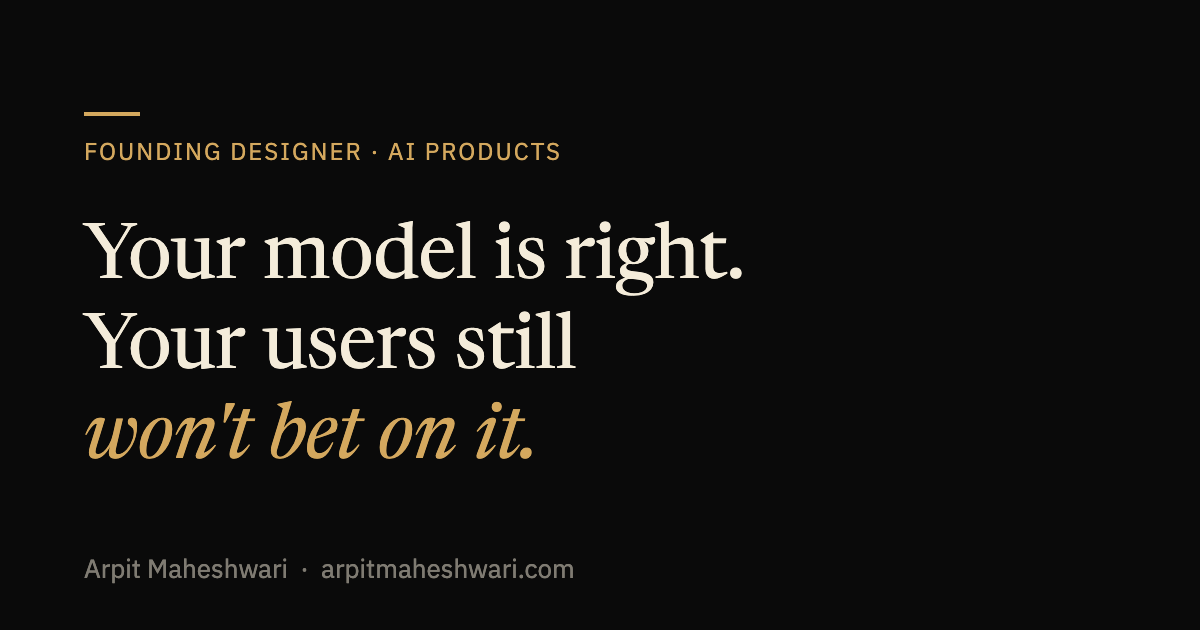
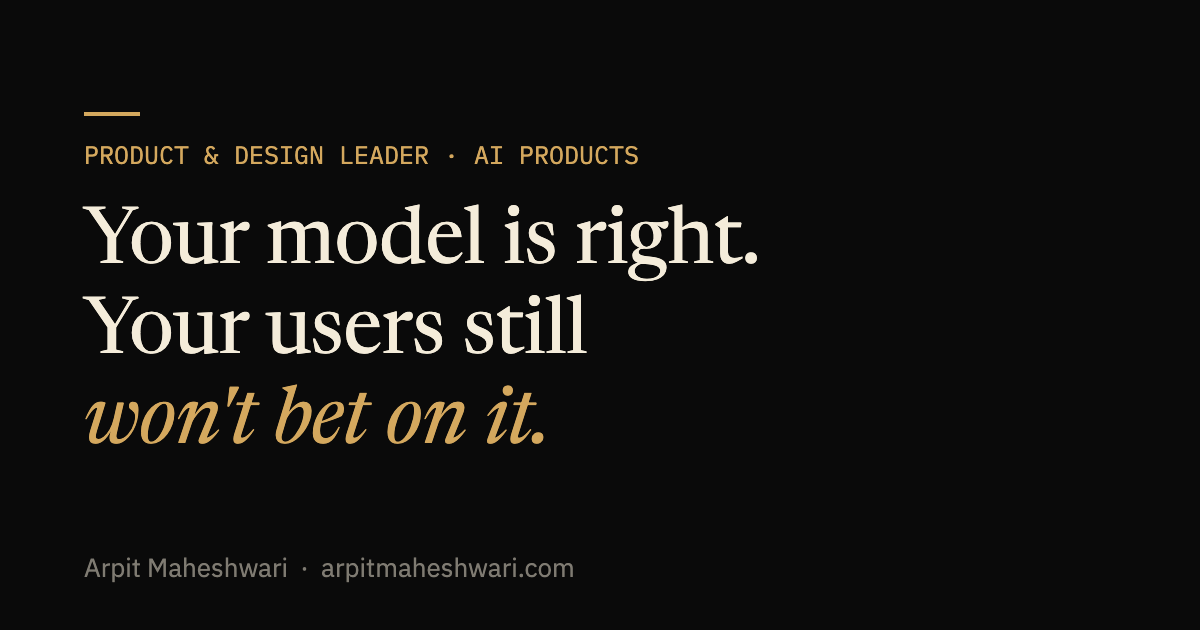
[positioning] retitle Design Leader -> Product & Design Leader across site, book, hire, llms.txt; PM receipts (AdTech, FinTech+DD, OrgOS) codified in CANONICAL-FACTS; OG cards for home + hire re-rendered with new title; portfolio.js v104

diff --git a/index.html b/index.html
@@ -7,7 +7,7 @@
 /* View router (homepage only): the book is the front door on desktop. Phones, touch, and reduced-motion get the scannable classic site by default — no rushed mobile screener forced into the page-turn book. A no-JS crawler never runs this, so classic stays fully indexable; ?view=classic (or a prior Classic choice) always stays here; deep links carry no router. The book remains one tap away via the nav. */
 (function(){try{var p=new URLSearchParams(location.search);if(p.get('view')==='classic'){localStorage.setItem('am-view','classic');return;}if(p.get('view')==='book'){localStorage.setItem('am-view','book');location.replace('./book/');return;}if(localStorage.getItem('am-view')==='book'){location.replace('./book/');}}catch(e){}})();
 </script>
-<title>Founding Designer for AI Products — Arpit Maheshwari</title>
+<title>Product &amp; Design Leader for AI Products — Arpit Maheshwari</title>
 <meta name="description" content="AI products don't fail at the model — they fail in the half-second before a person acts on it. I've designed that half-second for fifteen years.">
 <meta name="author" content="Arpit Maheshwari">
 <meta name="robots" content="index, follow, max-image-preview:large, max-snippet:-1, max-video-preview:-1">
@@ -17,20 +17,20 @@
 <meta name="geo.placename" content="Indore">
 <link rel="canonical" href="https://arpitmaheshwari.com/">
 <meta property="og:type" content="website">
-<meta property="og:title" content="Founding Designer for AI Products — Arpit Maheshwari">
+<meta property="og:title" content="Product & Design Leader for AI Products — Arpit Maheshwari">
 <meta property="og:description" content="AI products don't fail at the model — they fail in the half-second before a person acts on it. Arpit Maheshwari has designed that half-second for fifteen years. Open to founding-designer roles at AI product companies.">
 <meta property="og:url" content="https://arpitmaheshwari.com/">
 <meta property="og:image" content="https://arpitmaheshwari.com/assets/og-images/home-og.png">
-<meta property="og:image:alt" content="Your model is right. Your users still won't bet on it. — Arpit Maheshwari, founding designer for AI products">
+<meta property="og:image:alt" content="Your model is right. Your users still won't bet on it. — Arpit Maheshwari, product & design leader for AI products">
 <meta property="og:image:width" content="1200">
 <meta property="og:image:height" content="630">
 <meta property="og:site_name" content="Arpit Maheshwari Portfolio">
 <meta property="og:locale" content="en_IN">
 <meta name="twitter:card" content="summary_large_image">
-<meta name="twitter:title" content="Founding Designer for AI Products — Arpit Maheshwari">
+<meta name="twitter:title" content="Product & Design Leader for AI Products — Arpit Maheshwari">
 <meta name="twitter:description" content="AI products don't fail at the model — they fail in the half-second before a person acts on it. Arpit Maheshwari has designed that half-second for fifteen years. Open to founding-designer roles at AI product companies.">
 <meta name="twitter:image" content="https://arpitmaheshwari.com/assets/og-images/home-og.png">
-<meta name="twitter:image:alt" content="Your model is right. Your users still won't bet on it. — Arpit Maheshwari, founding designer for AI products">
+<meta name="twitter:image:alt" content="Your model is right. Your users still won't bet on it. — Arpit Maheshwari, product & design leader for AI products">
 <meta name="twitter:site" content="@arp_maheshwari">
 <meta name="twitter:creator" content="@arp_maheshwari">
 <link rel="icon" type="image/x-icon" href="./assets/favicon.ico">
@@ -50,12 +50,12 @@
   "name":"Arpit Maheshwari",
   "url":"https://arpitmaheshwari.com",
   "image":"https://arpitmaheshwari.com/arpit-maheshwari.jpg",
-  "jobTitle":"Design Leader — AI & Data-Intensive Products",
+  "jobTitle":"Product & Design Leader — AI & Data-Intensive Products",
   "description":"Founding & staff product designer for startups and enterprises building intelligent systems. 15 years designing data-intensive products across AI/ML, FinTech, AdTech, EdTech, and Telecom. Codes, reads SQL, ships to production.",
   "address":{"@type":"PostalAddress","addressLocality":"Indore","addressRegion":"Madhya Pradesh","addressCountry":"IN"},
   "alumniOf":[{"@type":"CollegeOrUniversity","name":"Institute of Management Technology, Ghaziabad"},{"@type":"CollegeOrUniversity","name":"Shri Vaishnav Institute of Technology and Science, Indore"}],
   "worksFor":{"@type":"Organization","name":"Sahaj AI Software Pvt. Ltd."},
-  "knowsAbout":["Founding Designer","Staff Product Designer","AI Product Design","ML Interface Design","Design Engineering","Data-Intensive Products","Confidence Score UX","ML Explainability UX","AdTech","FinTech","EdTech","Telecom UX","Web Accessibility","WCAG Compliance","Design Strategy","Frontend Prototyping"],
+  "knowsAbout":["Founding Designer","Product Management","Product Definition","Product Roadmapping","Staff Product Designer","AI Product Design","ML Interface Design","Design Engineering","Data-Intensive Products","Confidence Score UX","ML Explainability UX","AdTech","FinTech","EdTech","Telecom UX","Web Accessibility","WCAG Compliance","Design Strategy","Frontend Prototyping"],
   "sameAs":["https://www.linkedin.com/in/arpitmaheshwariprofile/","https://medium.com/@arpitmaheshwari","https://www.behance.net/arpitmaheshwari","https://github.com/arpitmaheshwari","https://x.com/arp_maheshwari"]
 }
 </script>
@@ -222,7 +222,7 @@
   <div class="hero-grid-lines" aria-hidden="true" style="z-index:1;"></div>
   <div style="position:relative; z-index:2; display:flex; gap:clamp(32px,4vw,64px); align-items:center; flex-wrap:wrap; width:100%; max-width:1280px; margin:0 auto; justify-content:space-between;">
   <div style="flex:1 1 520px; min-width:0; max-width:640px;">
-  <p class="hero-eyebrow" style="font-family:var(--ff-mono);font-size:var(--fs-eyebrow);letter-spacing:0.15em;text-transform:uppercase;color:var(--gold);margin:0 0 18px 0">Founding Designer · AI Products</p>
+  <p class="hero-eyebrow" style="font-family:var(--ff-mono);font-size:var(--fs-eyebrow);letter-spacing:0.15em;text-transform:uppercase;color:var(--gold);margin:0 0 18px 0">Product &amp; Design Leader · AI Products</p>
   <h1 class="hero-headline">
     <span class="line"><span class="line-inner">Your model is right.</span></span>
     <span class="line"><span class="line-inner">Your users still</span></span>
@@ -577,7 +577,7 @@
   <div class="contact-grid reveal" style="display:grid;grid-template-columns:repeat(auto-fit,minmax(300px,1fr));gap:clamp(36px,5vw,64px);align-items:start;margin-top:40px">
     <div>
       <h3 class="section-title" style="margin:0 0 18px 0">One seat. Full-time. Yours to offer.</h3>
-      <p class="u-body" style="margin:0 0 28px 0">I'm looking for exactly one role: founding designer at an AI product company of 5–40 people — or a staff / director seat where the trust layer is the actual job description. Fully remote from GMT+5:30 with 4–5 hours of daily US East overlap. Available — 4 weeks' notice.</p>
+      <p class="u-body" style="margin:0 0 28px 0">I'm looking for one seat: founding product &amp; design lead at an AI product company of 5–40 people — or a staff / director role where the trust layer is the actual job description. Fully remote from GMT+5:30 with 4–5 hours of daily US East overlap. Available — 4 weeks' notice.</p>
       <a href="https://calendly.com/arpitmaheshwari" target="_blank" rel="noopener noreferrer" data-cta="calendly" data-location="contact-secondary" style="display:inline-flex;align-items:center;gap:8px;padding:14px 24px;color:var(--gold);font-family:var(--ff-sans);font-weight:600;font-size:14px;letter-spacing:0.03em;border:1px solid var(--gold-dark);border-radius:2px;text-decoration:none;transition:border-color 0.3s,color 0.3s" onmouseover="this.style.borderColor='var(--gold)';this.style.color='var(--gold-light)'" onmouseout="this.style.borderColor='var(--gold-dark)';this.style.color='var(--gold)'">Prefer to talk first? Book 30 minutes ↗</a>
       <p style="font-size:13px;color:var(--ink-muted);margin:14px 0 0 0">I'll arrive having already used your product.</p>
       <p style="font-size:14px;color:var(--ink-muted);margin:18px 0 0 0">Prefer email? <a id="em-l" href="#" data-cta="email" data-location="contact" style="color:var(--gold);text-decoration:none;border-bottom:1px solid var(--gold-dark);padding-bottom:2px">Loading…</a></p>

diff --git a/hire/index.html b/hire/index.html
@@ -3,26 +3,26 @@
 <head>
 <meta charset="UTF-8">
 <meta name="viewport" content="width=device-width, initial-scale=1.0">
-<title>Hire Arpit Maheshwari — Founding Designer, AI Products</title>
-<meta name="description" content="One page: positioning, three receipts with baselines, two references, fifteen years of experience. Founding designer for AI products — available, 4 weeks' notice.">
+<title>Hire Arpit Maheshwari — Product & Design Leader, AI Products</title>
+<meta name="description" content="One page: positioning, three receipts with baselines, two references, fifteen years of experience. Product & design leader for AI products — available, 4 weeks' notice.">
 <meta name="author" content="Arpit Maheshwari">
 <meta name="theme-color" content="#0A0A0A">
 <link rel="canonical" href="https://arpitmaheshwari.com/hire/">
 <meta property="og:type" content="profile">
-<meta property="og:title" content="Hire Arpit Maheshwari — Founding Designer, AI Products">
+<meta property="og:title" content="Hire Arpit Maheshwari — Product & Design Leader, AI Products">
 <meta property="og:description" content="One page: positioning, three receipts with baselines, two references, fifteen years. Available · 4 weeks' notice.">
 <meta property="og:url" content="https://arpitmaheshwari.com/hire/">
 <meta property="og:image" content="https://arpitmaheshwari.com/assets/og-images/hire-og.png">
-<meta property="og:image:alt" content="Arpit Maheshwari — Founding Designer, AI Products. Available, 4 weeks' notice.">
+<meta property="og:image:alt" content="Arpit Maheshwari — Product & Design Leader, AI Products. Available, 4 weeks' notice.">
 <meta property="og:image:width" content="1200">
 <meta property="og:image:height" content="630">
 <meta property="og:site_name" content="Arpit Maheshwari Portfolio">
 <meta property="og:locale" content="en_IN" />
 <meta name="twitter:card" content="summary_large_image">
-<meta name="twitter:title" content="Hire Arpit Maheshwari — Founding Designer, AI Products">
+<meta name="twitter:title" content="Hire Arpit Maheshwari — Product & Design Leader, AI Products">
 <meta name="twitter:description" content="One page: positioning, receipts with baselines, references, availability.">
 <meta name="twitter:image" content="https://arpitmaheshwari.com/assets/og-images/hire-og.png">
-<meta name="twitter:image:alt" content="Arpit Maheshwari — Founding Designer, AI Products. Available, 4 weeks' notice.">
+<meta name="twitter:image:alt" content="Arpit Maheshwari — Product & Design Leader, AI Products. Available, 4 weeks' notice.">
 <link rel="preconnect" href="https://fonts.googleapis.com">
 <link rel="preconnect" href="https://fonts.gstatic.com" crossorigin>
 <link rel="preload" as="style" href="https://fonts.googleapis.com/css2?family=Newsreader:ital,opsz,wght@0,6..72,300;0,6..72,400;0,6..72,600;1,6..72,300;1,6..72,400&family=IBM+Plex+Sans:ital,wght@0,400;0,600;1,400&family=IBM+Plex+Mono:wght@400;500&family=Lexend:wght@400&display=swap">
@@ -32,9 +32,9 @@
 {
   "@context":"https://schema.org",
   "@type":"ProfilePage",
-  "name":"Hire Arpit Maheshwari — Founding Designer, AI Products",
+  "name":"Hire Arpit Maheshwari — Product & Design Leader, AI Products",
   "url":"https://arpitmaheshwari.com/hire/",
-  "about":{"@type":"Person","name":"Arpit Maheshwari","url":"https://arpitmaheshwari.com/","image":"https://arpitmaheshwari.com/arpit-maheshwari.jpg","jobTitle":"Founding Designer — AI Products"}
+  "about":{"@type":"Person","name":"Arpit Maheshwari","url":"https://arpitmaheshwari.com/","image":"https://arpitmaheshwari.com/arpit-maheshwari.jpg","jobTitle":"Product & Design Leader — AI Products"}
 }
 </script>
 <script async src="https://www.googletagmanager.com/gtag/js?id=G-PFY6ME99K8"></script>
@@ -108,7 +108,7 @@
     <img src="../arpit-maheshwari.jpg" alt="Arpit Maheshwari, design leader" width="88" height="88">
     <div>
       <h1 class="hire-name">Arpit Maheshwari</h1>
-      <p class="hire-role">Founding Designer · AI Products</p>
+      <p class="hire-role">Product &amp; Design Leader · AI Products</p>
     </div>
   </header>
 
@@ -151,10 +151,10 @@
   </table>
 
   <h2 class="hire-sec">Focus</h2>
-  <p class="hire-avail">Model-Layer Design · Data-Intensive UI · Design Leadership · Organizational Design · Research &amp; Evals · System Architecture</p>
+  <p class="hire-avail">Model-Layer Design · Product Definition &amp; Roadmaps · Data-Intensive UI · Design Leadership · Organizational Design · Research &amp; Evals · System Architecture</p>
 
   <h2 class="hire-sec">Availability</h2>
-  <p class="hire-avail">Founding designer for AI products — the one role I'm looking for, at a company of 5–40 people. Also open to a staff or director seat where the trust layer is the job. <strong>Available · 4 weeks' notice</strong> · Fully remote (GMT+5:30) · 4–5 hours of daily overlap with US East Coast.</p>
+  <p class="hire-avail">Founding product &amp; design lead for AI products — the one role I'm looking for, at a company of 5–40 people. Also open to a staff or director seat where the trust layer is the job. <strong>Available · 4 weeks' notice</strong> · Fully remote (GMT+5:30) · 4–5 hours of daily overlap with US East Coast.</p>
 
   <h2 class="hire-sec">How I de-risk the hire</h2>
   <p class="hire-avail">Paid 1-week trial on a real (not contrived) problem → 1-hour debrief → offer. I want you to see how I think and ship, not how I wireframe in interviews — and the trial is mutual: I'm evaluating you too. Your technical screen is also <a href="../screen/" data-cta="screen" data-location="hire">already answered in writing →</a></p>

diff --git a/book/portfolio.js b/book/portfolio.js
@@ -111,10 +111,10 @@ const WRITING = [{
   h: "Reading the support tickets myself",
   p: "The cheapest research method nobody on the design team wants to do."
 }];
-const STATUS = ["Available · 4 weeks' notice", "Founding designer · AI", "Remote · GMT+5:30"];
+const STATUS = ["Available · 4 weeks' notice", "Product & design lead · AI", "Remote · GMT+5:30"];
 
 /* ---- CURRICULUM VITAE (the printable appendix) ---- */
-const CV_SKILLS = ["Model-Layer Design", "Data-Intensive UI", "Design Leadership", "Organizational Design", "Research & Evals", "System Architecture"];
+const CV_SKILLS = ["Model-Layer Design", "Product Definition & Roadmaps", "Data-Intensive UI", "Design Leadership", "Organizational Design", "Research & Evals", "System Architecture"];
 const CV_EXP = [{
   yr: "2019—",
   role: "Solution Consultant",
@@ -1325,7 +1325,7 @@ function buildBook(ctx) {
       className: "bk-cover__rule"
     }), /*#__PURE__*/React.createElement("p", {
       className: "bk-cover__byline"
-    }, "Arpit Maheshwari"), /*#__PURE__*/React.createElement("p", { className: "bk-cover__skim" }, "Founding designer for AI products \xB7 shipped to 4M+"), /*#__PURE__*/React.createElement("a", { className: "bk-cover__skimlink", href: "../index.html?view=classic", onClick: e => { e.stopPropagation(); try { localStorage.setItem("am-view", "classic"); } catch (err) {} } }, "Read the classic site instead \u2192"), /*#__PURE__*/React.createElement("button", {
+    }, "Arpit Maheshwari"), /*#__PURE__*/React.createElement("p", { className: "bk-cover__skim" }, "Product & design leader for AI products \xB7 shipped to 4M+"), /*#__PURE__*/React.createElement("a", { className: "bk-cover__skimlink", href: "../index.html?view=classic", onClick: e => { e.stopPropagation(); try { localStorage.setItem("am-view", "classic"); } catch (err) {} } }, "Read the classic site instead \u2192"), /*#__PURE__*/React.createElement("button", {
       className: "bk-cover__open",
       onClick: () => go(1),
       "aria-label": "Open the book \u2014 tap or press space"
@@ -1792,7 +1792,7 @@ function buildBook(ctx) {
       }
     }, "Building in AI?"), /*#__PURE__*/React.createElement("p", {
       className: "bk-body"
-    }, "Your model is right. Your users still won’t bet on it. That half-second of doubt is the only thing I design. Founding designer for AI products — also open to a staff or director trust-layer seat. Available."), /*#__PURE__*/React.createElement(React.Fragment, null), /*#__PURE__*/React.createElement("div", {
+    }, "Your model is right. Your users still won’t bet on it. That half-second of doubt is the only thing I design. Founding product & design lead for AI products — also open to a staff or director trust-layer seat. Available."), /*#__PURE__*/React.createElement(React.Fragment, null), /*#__PURE__*/React.createElement("div", {
       className: "bk-social",
       style: {
         marginTop: 24

diff --git a/book/index.html b/book/index.html
@@ -44,7 +44,7 @@
   "@type":"Person",
   "name":"Arpit Maheshwari",
   "url":"https://arpitmaheshwari.com/book/",
-  "jobTitle":"Design Leader — AI & Data-Intensive Products",
+  "jobTitle":"Product & Design Leader — AI & Data-Intensive Products",
   "description":"Fifteen years designing the trust layer between users and algorithms across AI, FinTech, AdTech, EdTech, and Telecom.",
   "sameAs":["https://www.linkedin.com/in/arpitmaheshwariprofile/","https://medium.com/@arpitmaheshwari","https://www.behance.net/arpitmaheshwari","https://github.com/arpitmaheshwari","https://x.com/arp_maheshwari","https://arpitmaheshwari.substack.com"]
 }
@@ -400,7 +400,7 @@
 </ul></section>
 <section><h2>Curriculum Vitæ</h2>
 <p>The facts, in order — for the founder who checks the work before the call. Every number arrives holding its baseline.</p>
-<p class='nsb-lbl'>Focus</p><p>Model-Layer Design · Data-Intensive UI · Design Leadership · Organizational Design · Research &amp; Evals · System Architecture</p>
+<p class='nsb-lbl'>Focus</p><p>Model-Layer Design · Product Definition &amp; Roadmaps · Data-Intensive UI · Design Leadership · Organizational Design · Research &amp; Evals · System Architecture</p>
 <p class='nsb-lbl'>Experience</p><ul class='nsb-cv'>
 <li><strong>2019—</strong> — Solution Consultant<br>Sahaj AI · AI products for AdTech, HRTech &amp; Private Equity</li>
 <li><strong>2014–19</strong> — Lead Product Designer<br>PTC Inc. · PTC University — Learning Connector · 550k+ registered, 350k+ active · NASA, Apple, Boeing, Airbus &amp; more</li>
@@ -429,6 +429,6 @@
 <script defer src="./vendor/react.production.min.js"></script>
 <script defer src="./vendor/react-dom.production.min.js"></script>
 <script src="monograph-icons.js" defer></script>
-<script src="portfolio.js?v=103" defer></script>
+<script src="portfolio.js?v=104" defer></script>
 </body>
 </html>

diff --git a/now/index.html b/now/index.html
@@ -79,7 +79,7 @@
     <h2 class="section-title" style="margin:0 0 20px;max-width:none">Timeline & Commitments</h2>
     <p style="font-size:var(--fs-body);color:var(--ink);line-height:1.7;margin:0 0 20px"><strong>This month (June 2026):</strong> Shipping 2 essays + 2 patterns. Adding plain-language definitions across the case studies and patterns.</p>
     <p style="font-size:var(--fs-body);color:var(--ink);line-height:1.7;margin:0 0 20px"><strong>July 2026:</strong> Expand patterns library to 8 total. Publish 2 more essays. Begin "speculative redesign" experiments (1–2 high-signal products).</p>
-    <p style="font-size:var(--fs-body);color:var(--ink);line-height:1.7;margin:0"><strong>August–September 2026:</strong> Consolidate. Polish. Ship 2 more essays. Launch video experiments if demand is there. Assess founding designer inbound (goal: 4+ qualified opportunities/month).</p>
+    <p style="font-size:var(--fs-body);color:var(--ink);line-height:1.7;margin:0"><strong>August–September 2026:</strong> Consolidate. Polish. Ship 2 more essays. Launch video experiments if demand is there. Assess founding product &amp; design lead inbound (goal: 4+ qualified opportunities/month).</p>
   </section>
 
   <p style="font-size:var(--fs-caption);color:var(--ink-muted);margin-top:64px;padding-top:32px;border-top:1px solid var(--border);">This page gets refreshed at the top of each month.</p>

diff --git a/CANONICAL-FACTS.md b/CANONICAL-FACTS.md
@@ -20,16 +20,17 @@ _Last reconciled: 2026-06-19._
 - **Brand name:** **The Trust Layer** — it is BOTH the book's title AND the Substack newsletter. Always
   capitalised as a name.
 - **Job title — use ONE of these, not a new variant each time:**
-  - In page code / structured data (schema `jobTitle`): **Design Leader — AI & Data-Intensive Products**
-  - On-page role line (under my name): **Design Leader · AI & Data-Intensive Products**
+  - In page code / structured data (schema `jobTitle`): **Product & Design Leader — AI & Data-Intensive Products**
+  - On-page role line (under my name): **Product & Design Leader · AI & Data-Intensive Products**
+  - _(Retitled from "Design Leader" on 2026-07-25 — Arpit's call: also owns product management, product definition, roadmapping. PM receipts: AdTech, FinTech + DD, OrgOS — NOT PTC.)_
   - Only exception: the `/hire/` page's browser-tab title may keep its search wording
-    "Founding Designer, AI Products" — but its on-page role line still uses the canonical above.
+    "Product & Design Leader, AI Products" — but its on-page role line still uses the canonical above.
 
 ## 2. Availability (must read identically everywhere)
 - **Available · 4 weeks' notice** (always the digit "4", never "four").
 - Fully remote from Indore, India (GMT+5:30); 4–5 hours of daily overlap with US East Coast.
-- Looking for ONE role: founding designer at an AI product company of 5–40 people, OR a staff / director
-  seat where the trust layer is the job.
+- Looking for ONE role: founding product & design lead at an AI product company of 5–40 people, OR a
+  staff / director seat where the trust layer is the job.
 
 ## 3. The six case studies — names + numbers are LOCKED
 Use the exact metric strings below on every surface (homepage chip, case-study page, the book, the résumé).
@@ -207,9 +208,10 @@ accuracy IS the positioning.
   github.com/arpitmaheshwari. Substack = substack.com/@arpitmaheshwari. Designed resume/portfolio
   show these as small gold monoline icons (not long URLs); the ATS .docx keeps the LinkedIn URL as
   parseable text.
-- **Title honesty:** documents and site say **Design Leader — AI & Data-Intensive Products** as
+- **Title honesty:** documents and site say **Product & Design Leader — AI & Data-Intensive Products** as
   positioning; the résumé names the official employer title ("Solution Consultant") beside the
-  functional one ("Design Lead — AI Products"). LinkedIn must match this story — never claim
+  functional one ("Product & Design Lead — AI Products"). PM claims carry receipts only on AdTech,
+  FinTech + DD, and OrgOS — never claim product ownership on PTC work. LinkedIn must match this story — never claim
   "Principal" as a conferred rank anywhere.
 - **AdTech reference (display rule, updated 2026-07-22):** say only "a named reference for this work
   is available on request." NEVER publicly identify them as "the client's CTO" or tie the reference to
